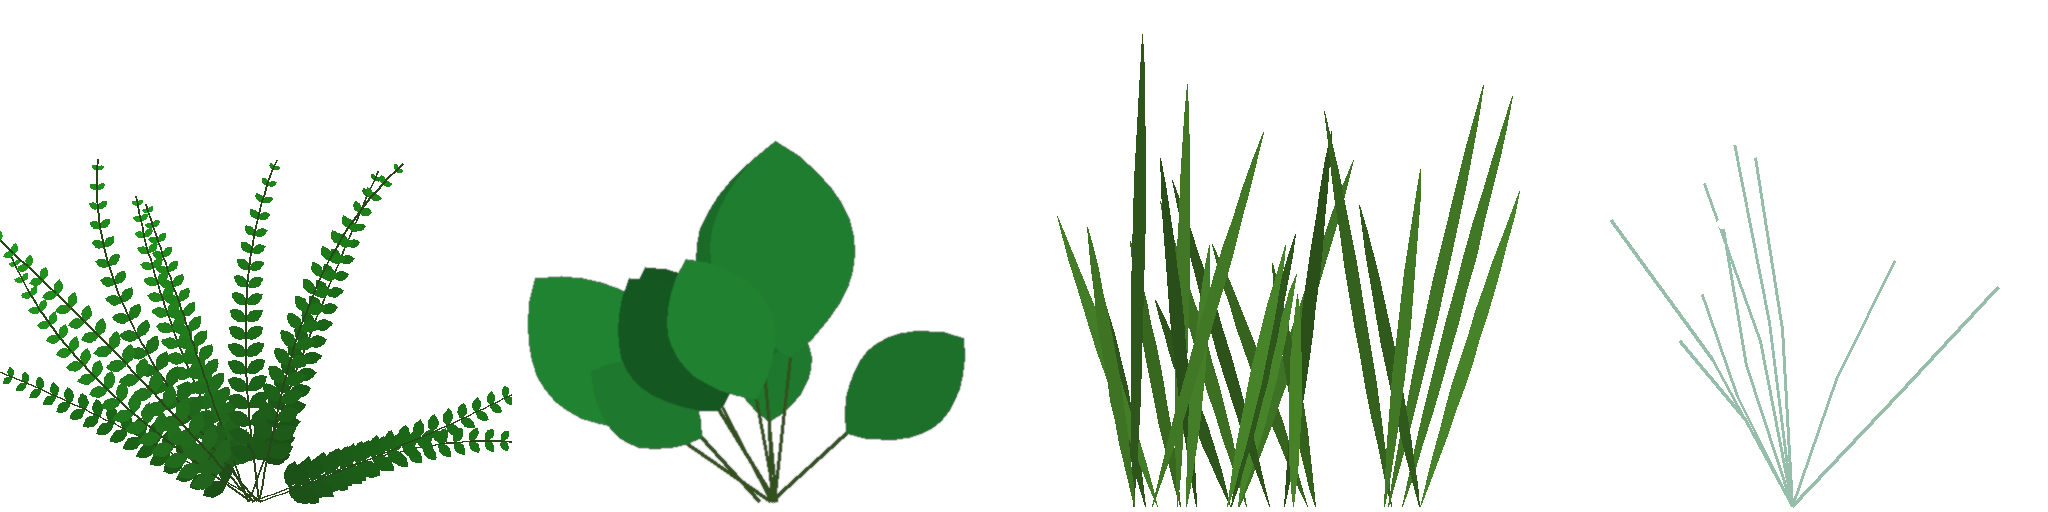
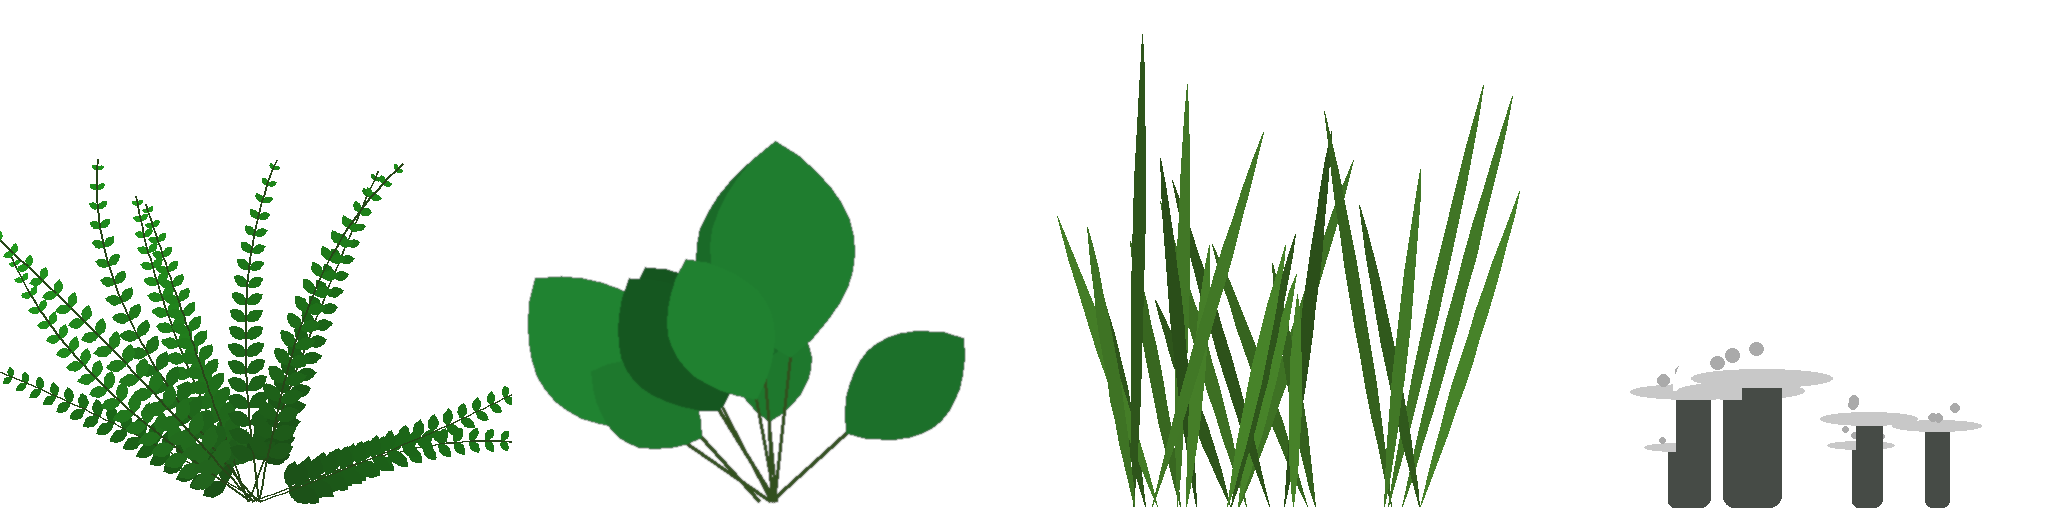
Dschungel-Paket: doppelt so lange, steilere Abfahrt; Steilkurve bis 60° mit Erdtunnel; nahtlose runde Wanne; Leuchtpilze statt Blumen; Glühwürmchen kleiner und neben der Bahn; Sternschnuppen und dritte Bergebene; FX-Lab-Reiter Jungle; Start-Mädel größer und ganz im Bild; Positionslichter (Ship: Nav 
Claude-Session: https://claude.ai/code/session_01G11QHdkFEnahkNjxBuKNkX

Changed region(s): [[0.7812, 0.4688, 0.9688, 1.0]]

diff --git a/tools/make_jungle_tex.py b/tools/make_jungle_tex.py
@@ -76,15 +76,23 @@ def cell_reeds(rnd, S):
     return im
 
 def cell_glow(rnd, S):
-    # Leuchtpflanze: helle Stängel mit Knospen (Farbe kommt im Spiel dazu)
+    # Leuchtpilze: kleine Gruppe, helle Hüte (leuchten im Spiel), dunklere Stiele
     im = Image.new('RGBA', (S, S), (0, 0, 0, 0)); d = ImageDraw.Draw(im)
-    for f in range(9):
-        a = -math.pi / 2 + rnd.uniform(-0.8, 0.8); L = S * rnd.uniform(0.35, 0.75)
-        x, y = S / 2, S * 0.99
-        ex, ey = x + math.cos(a) * L, y + math.sin(a) * L
-        d.line([(x, y), ((x + ex) / 2 + rnd.uniform(-15, 15), (y + ey) / 2), (ex, ey)], fill=(150, 190, 170, 255), width=3)
-        r = rnd.uniform(5, 11)
-        d.ellipse([ex - r, ey - r, ex + r, ey + r], fill=(255, 255, 255, 255))
+    ms = []
+    for f in range(7):
+        ms.append((S / 2 + rnd.uniform(-S * 0.3, S * 0.3), rnd.uniform(0.35, 1.0)))
+    ms.sort(key=lambda m: m[1])
+    for x, sz in ms:
+        h = S * 0.26 * sz; w = S * 0.15 * sz
+        base = S * 0.99
+        d.rounded_rectangle([x - w * 0.26, base - h, x + w * 0.26, base], radius=int(w * 0.15) + 1, fill=(70, 75, 70, 255))
+        cap = [x - w, base - h - w * 0.9, x + w, base - h + w * 0.9]
+        d.pieslice(cap, 180, 360, fill=(255, 255, 255, 255))
+        d.ellipse([x - w * 0.95, base - h - w * 0.12, x + w * 0.95, base - h + w * 0.12], fill=(200, 200, 200, 255))
+        for k in range(3):
+            dx = rnd.uniform(-0.6, 0.6) * w; dy = rnd.uniform(-0.45, -0.15) * w
+            r = w * 0.09
+            d.ellipse([x + dx - r, base - h + dy - r, x + dx + r, base - h + dy + r], fill=(170, 170, 170, 255))
     return im
 
 def under_atlas(dst):
